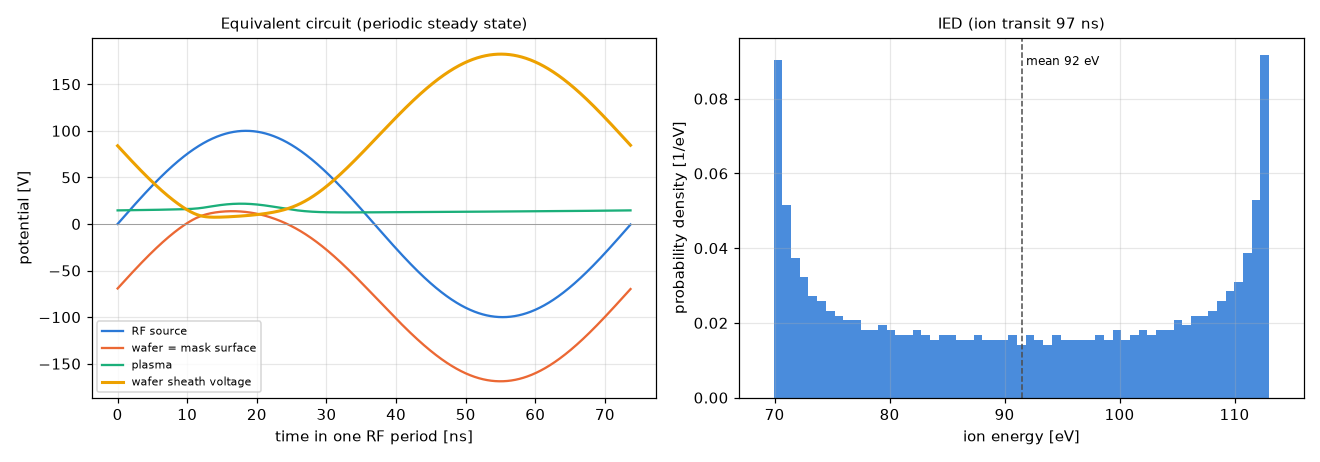
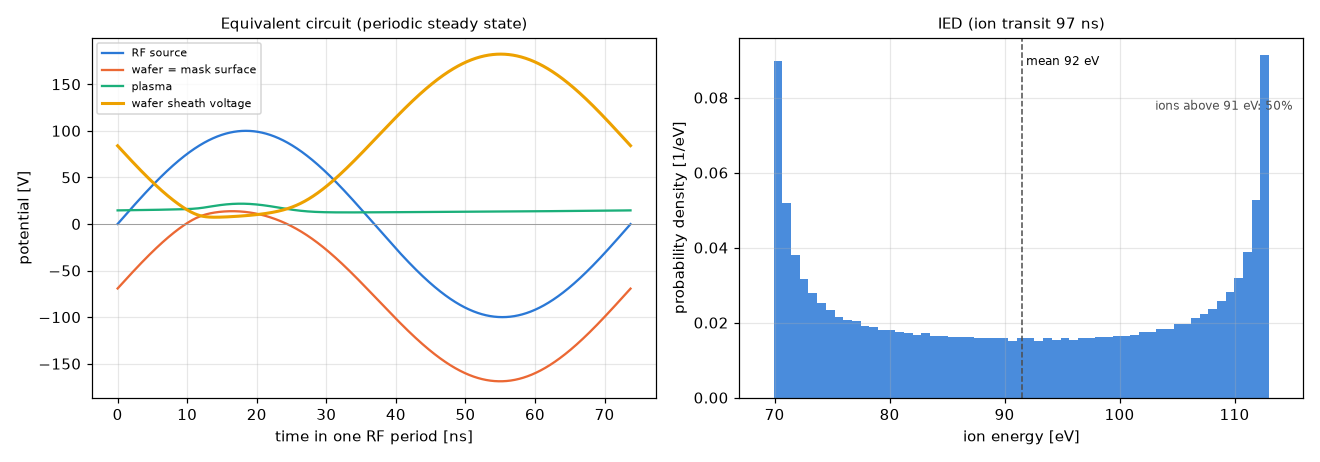
feat: RF バイアスに負の矩形パルス波形を追加
- rf_wave (sine / pulse)、rf_duty (パルス幅の割合, 既定 10%)、rf_rise (立ち上がり時間,
  既定 1 ns) を追加。pulse は 0 V から -rf_volt へ下がる負に凸の矩形パルス
- 等価回路の素子はそのままで、1 周期を電源電圧がなめらかな区間に分けて積分し、
  パルスのエッジでも硬い ODE が崩れないようにした
- 出力の格子を 1 周期 4096 点に増やし、IED の図に高エネルギー側の割合を表示
- GUI に波形・パルス幅・立ち上がり時間の入力欄と入力チェックを追加
  (パルスの欄は rf かつ pulse のときだけ有効)
- 正弦波の結果は変更前と 1e-7 V 以内で一致、bias=dc はビット単位で一致することを確認
- README にパルスの説明・周波数ごとの IED・トレンチの帯電への影響を追加

diff --git a/plasma_circuit.py b/plasma_circuit.py
@@ -7,8 +7,15 @@ RF バイアスのプラズマ等価回路 (集中定数モデル)
 Yu et al., Plasma Sources Sci. Technol. 31, 035012 (2022) の従来型の等価回路 (Fig. 4(b)) を基に、
 ブロッキングコンデンサとウェハ上の膜 (SiO2 + マスク) を直列に入れた回路を解く:
 
-    RF 電源 Vrf sin(2πft) ─ C_b ─ ウェハ (Si) ─ C_stack (SiO2 [+ 誘電体マスク]) ─ 表面 (マスク)
+    RF 電源 u_s(t) ─ C_b ─ ウェハ (Si) ─ C_stack (SiO2 [+ 誘電体マスク]) ─ 表面 (マスク)
         ─ ウェハ側シース ─ プラズマ ─ 壁側シース (面積はウェハの wall_ratio 倍) ─ 接地
+
+* RF 電源の波形 (rf_wave):
+    sine : u_s = Vrf sin(2πft)
+    pulse: 0 V から -Vrf へ下がる矩形パルス (負に凸)。パルス幅 (半分の高さで測る) は rf_duty × 周期、
+           立ち下がり・立ち上がりは rf_rise の直線。C_b が直流を切るので、0 V の基準の位置は結果に関係しない。
+  1 周期を電源電圧がなめらかな区間 (パルスならエッジとその間) に分けて区間ごとに積分するので、
+  硬い ODE でもエッジで崩れない。
 
 * シースは 3 つの要素の並列:
     イオン電流源      I_i = e Γ_i A              (Γ_i = Params.flux, Bohm フラックス)
@@ -38,6 +45,7 @@ M_E = 9.1093837015e-31       # [kg]
 AMU = 1.66053906660e-27      # [kg]
 
 BIAS_TYPES = ("rf", "dc")             # bias の選択肢 (dc: 全イオンが ion_energy_eV)
+WAVE_TYPES = ("sine", "pulse")        # rf_wave の選択肢 (pulse: 負に凸の矩形パルス)
 IED_MODELS = ("transit", "instant")   # ied_model の選択肢
 
 
@@ -69,8 +77,39 @@ def _electron_current(V, A, el):
     return el["J_e"] * A * np.exp(np.minimum(-V / el["Te"], 60.0))
 
 
-def _rhs(el, Vrf, w):
-    """状態 x = (q, V1) の時間微分を返す関数。
+def source_segments(p):
+    """RF 電源の 1 周期を、電圧がなめらかな区間に分けたリスト [(t0, t1, u_s(t), du_s/dt(t)), ...] を返す
+    (t は周期の始まりからの時刻)。pulse は 立ち下がり → -Vrf → 立ち上がり → 0 V の 4 区間。"""
+    if p.rf_wave not in WAVE_TYPES:
+        raise ValueError(f"rf_wave は {' / '.join(WAVE_TYPES)} のどちらかにしてください: {p.rf_wave!r}")
+    T = 1.0 / p.rf_freq
+    V = p.rf_volt
+    if p.rf_wave == "sine":
+        w = 2 * np.pi * p.rf_freq
+        return [(0.0, T, lambda t: V * np.sin(w * t), lambda t: V * w * np.cos(w * t))]
+    D, tr = p.rf_duty, p.rf_rise
+    if not 0 < D < 1:
+        raise ValueError(f"rf_duty (パルス幅の割合) は 0 より大きく 1 より小さくしてください: {D}")
+    if not 0 < tr <= min(D, 1 - D) * T:
+        raise ValueError(f"rf_rise (立ち上がり時間) は 0 より大きく、パルス幅とパルスの間隔 "
+                         f"({min(D, 1 - D) * T * 1e9:.3g} ns) 以下にしてください: {tr * 1e9:.3g} ns")
+    knots = [0.0, tr, D * T, D * T + tr, T]          # 半分の高さで測ったパルス幅が D T になる
+    levels = [0.0, -V, -V, 0.0, 0.0]
+    return [(a, b, (lambda t, a=a, ua=ua, k=(ub - ua) / (b - a): ua + k * (t - a)),
+             (lambda t, k=(ub - ua) / (b - a): k))
+            for a, b, ua, ub in zip(knots[:-1], knots[1:], levels[:-1], levels[1:]) if b > a]
+
+
+def source_label(p):
+    """ログ・表示用の電源波形の説明。"""
+    if p.rf_wave == "pulse":
+        return (f"負のパルス {p.rf_freq/1e6:g} MHz, 高さ {p.rf_volt:g} V, 幅 {p.rf_duty*100:g}%, "
+                f"立ち上がり {p.rf_rise*1e9:g} ns")
+    return f"正弦波 {p.rf_freq/1e6:g} MHz, 振幅 {p.rf_volt:g} V"
+
+
+def _rhs(el, us_f, dus_f):
+    """状態 x = (q, V1) の時間微分を返す関数 (us_f, dus_f: 電源電圧とその時間微分)。
     KVL を時間微分した式から直列電流 i を求める:
         C0 dV0/dt = i - (I_e0 - I_i0),  C1 dV1/dt = (I_e1 - I_i1) - i,  dV0/dt = du_s/dt - i / C_s + dV1/dt"""
     A1, A0, C_s = el["A1"], el["A0"], el["C_s"]
@@ -78,7 +117,7 @@ def _rhs(el, Vrf, w):
 
     def rhs(t, x):
         q, V1 = x
-        us, dus = Vrf * np.sin(w * t), Vrf * w * np.cos(w * t)
+        us, dus = us_f(t), dus_f(t)
         V0 = us - q / C_s + V1
         C1, C0 = _sheath_cap(V1, A1, el), _sheath_cap(V0, A0, el)
         d1 = _electron_current(V1, A1, el) - I_i1     # ウェハ側シースの (電子 - イオン) 電流
@@ -88,7 +127,7 @@ def _rhs(el, Vrf, w):
     return rhs
 
 
-def solve_circuit(p, n_phase=1024, max_periods=3000):
+def solve_circuit(p, n_phase=4096, max_periods=3000):
     """RF 周期定常まで回路を解き、1 周期分の波形と IED を dict で返す。
     t: 位相 0 からの時刻 [s], us/uw/um/up: RF 電源・ウェハ・表面 (マスク)・プラズマの電位 [V],
     V1: ウェハ側シース電圧 [V], i: 直列電流 [A], E: シースに入った時刻ごとのイオンエネルギー [eV]"""
@@ -98,31 +137,42 @@ def solve_circuit(p, n_phase=1024, max_periods=3000):
     Te = el["Te"]
     w = 2 * np.pi * p.rf_freq
     T = 1.0 / p.rf_freq
-    rhs = _rhs(el, p.rf_volt, w)
+    segs = [(a, b, us_f, _rhs(el, us_f, dus_f)) for a, b, us_f, dus_f in source_segments(p)]
     atol = [1e-9 * el["C_s"], 1e-7]                 # q [C], V1 [V]
+
+    def one_period(x, t_out=None, tight=False):
+        """1 周期を区間ごとに積分し、周期の終わりの状態と、t_out (周期内の時刻) での状態を返す。"""
+        ys = []
+        for a, b, _, rhs in segs:
+            te = None if t_out is None else np.append(t_out[(t_out >= a) & (t_out < b)], b)
+            sol = solve_ivp(rhs, (a, b), x, method="LSODA", t_eval=te,
+                            rtol=1e-9 if tight else 1e-7, atol=[v / 100 for v in atol] if tight else atol)
+            if not sol.success:
+                raise RuntimeError(f"等価回路の積分に失敗しました: {sol.message}")
+            x = sol.y[:, -1]
+            if t_out is not None:
+                ys.append(sol.y[:, :-1])
+        return x, (np.hstack(ys) if ys else None)
 
     x = np.array([0.0, Te])
     for k in range(max_periods):
-        sol = solve_ivp(rhs, (k * T, (k + 1) * T), x, method="LSODA", rtol=1e-7, atol=atol)
-        if not sol.success:
-            raise RuntimeError(f"等価回路の積分に失敗しました: {sol.message}")
-        dq, dV = np.abs(sol.y[:, -1] - x)
-        x = sol.y[:, -1]
+        x_new, _ = one_period(x)
+        dq, dV = np.abs(x_new - x)
+        x = x_new
         if k >= 3 and dq < 1e-6 * el["C_b"] and dV < 1e-4:   # 1 周期での変化が C_b で 1 μV, V1 で 0.1 mV 未満
             break
     else:
         raise RuntimeError(f"等価回路が {max_periods} 周期で周期定常になりませんでした")
 
     t = np.arange(n_phase) * T / n_phase
-    sol = solve_ivp(rhs, (0.0, T), x, method="LSODA", rtol=1e-9, atol=[a / 100 for a in atol], t_eval=t)
-    if not sol.success:
-        raise RuntimeError(f"等価回路の積分に失敗しました: {sol.message}")
-    q, V1 = sol.y
-    us = p.rf_volt * np.sin(w * t)
+    _, y = one_period(x, t_out=t, tight=True)
+    q, V1 = y
+    seg_of = np.searchsorted([b for _, b, _, _ in segs], t, side="right")   # 各時刻が属する区間
+    us = np.array([segs[j][2](tt) for j, tt in zip(seg_of, t)])
     uw = us - q / el["C_b"]                         # ウェハ (Si)
     um = uw - q / el["C_stack"]                     # 表面 (マスク)
     up = um + V1                                    # プラズマ (= 壁側シース電圧)
-    i = np.array([rhs(tt, xx)[0] for tt, xx in zip(t, sol.y.T)])
+    i = np.array([segs[j][3](tt, xx)[0] for j, tt, xx in zip(seg_of, t, y.T)])
 
     # イオンエネルギー: シース通過時間での平均 (一次遅れ) または瞬時値
     V1m = V1.mean()
@@ -167,7 +217,7 @@ def plot_circuit(c, ax_wave, ax_ied):
     ax_wave.set_xlabel("time in one RF period [ns]")
     ax_wave.set_ylabel("potential [V]")
     ax_wave.set_title("Equivalent circuit (periodic steady state)", fontsize=10)
-    ax_wave.legend(fontsize=7, loc="lower left")
+    ax_wave.legend(fontsize=7, loc="best")
     ax_wave.grid(alpha=0.3)
 
     E = c["E"]
@@ -175,6 +225,9 @@ def plot_circuit(c, ax_wave, ax_ied):
     ax_ied.hist(E, bins=bins, density=True, color=colors[0], alpha=0.85)
     ax_ied.axvline(E.mean(), color="0.3", ls="--", lw=1)
     ax_ied.text(E.mean(), ax_ied.get_ylim()[1] * 0.95, f" mean {E.mean():.0f} eV", fontsize=8, va="top")
+    mid = (E.min() + E.max()) / 2
+    ax_ied.text(0.98, 0.80, f"ions above {mid:.0f} eV: {(E > mid).mean() * 100:.0f}%", transform=ax_ied.transAxes,
+                ha="right", fontsize=8, color="0.3")
     ax_ied.set_xlabel("ion energy [eV]")
     ax_ied.set_ylabel("probability density [1/eV]")
     ax_ied.set_title(f"IED (ion transit {c['tau_i']*1e9:.0f} ns)", fontsize=10)

diff --git a/trench_charging_2d.py b/trench_charging_2d.py
@@ -26,6 +26,7 @@
     - イオン  : 垂直入射 + 横方向の熱速度 Ti。エネルギーは bias="rf" (既定) なら RF バイアスの
                 プラズマ等価回路 (plasma_circuit.py: RF 電源 → ブロッキングコンデンサ → ウェハ → SiO2 →
                 マスク → シース → プラズマ → シース → 接地) を RF 周期定常まで解いて求めた IED から選ぶ。
+                電源の波形は正弦波 (既定) か、負に凸の矩形パルス (rf_wave="pulse", 幅 rf_duty) 。
                 bias="dc" なら全イオンが ion_energy_eV。
                 帯電の時定数 (ms) は RF 周期 (74 ns) よりずっと長いので、IED だけを使う (一方向の連成)。
     - 電子    : 温度 Te のマクスウェル分布のフラックス分布(等方的)
@@ -50,6 +51,7 @@
     uv run trench_charging_2d.py --mask_t 40     # マスク厚 40 セル = 200 nm (0 でマスクなし)
     uv run trench_charging_2d.py --mask_type dielectric --mask_eps_r 3.0  # 絶縁性のマスク
     uv run trench_charging_2d.py --rf_freq 2e6 --rf_volt 150  # RF バイアスの周波数 [Hz] と振幅 [V]
+    uv run trench_charging_2d.py --rf_wave pulse --rf_freq 1e6 --rf_duty 0.1  # 負の矩形パルス (幅 10%)
     uv run trench_charging_2d.py --bias dc       # RF 回路を使わず、全イオンを ion_energy_eV にする
     uv run trench_charging_2d.py --help          # 変更できるパラメータ一覧
 
@@ -108,7 +110,10 @@ class Params:
     # ---- RF バイアス (プラズマ等価回路, plasma_circuit.py) ----
     bias: str = "rf"          # "rf": 等価回路のシース電圧から IED を作る / "dc": 全イオンが ion_energy_eV
     rf_freq: float = 13.56e6  # RF 周波数 [Hz]
-    rf_volt: float = 100.0    # RF 電源の振幅 [V]
+    rf_volt: float = 100.0    # RF 電源の振幅 [V] (pulse ではパルスの高さ)
+    rf_wave: str = "sine"     # RF 電源の波形: "sine" (正弦波) / "pulse" (0 V から -rf_volt へ下がる負の矩形パルス)
+    rf_duty: float = 0.1      # pulse: パルス幅 (半分の高さで測る) の周期に対する割合
+    rf_rise: float = 1e-9     # pulse: 立ち下がり・立ち上がりの時間 [s]
     c_block: float = 4900e-12  # ブロッキングコンデンサ [F]
     wafer_d: float = 0.3      # ウェハ (電極) の直径 [m]
     wall_ratio: float = 5.0   # 接地側 (壁) の面積 / ウェハの面積
@@ -501,7 +506,7 @@ def run(p, log=print, progress=None, stop=None):
     if p.bias == "rf":
         circuit = PC.solve_circuit(p)
         ion_energy = PC.ion_energy_sampler(circuit)
-        log(f"RF {p.rf_freq/1e6:g} MHz, 振幅 {p.rf_volt:g} V, C_b {p.c_block*1e12:g} pF, "
+        log(f"RF バイアスの電源: {PC.source_label(p)}, C_b {p.c_block*1e12:g} pF, "
             f"ウェハ {p.wafer_d*1e3:g} mm, 壁/ウェハ面積比 {p.wall_ratio:g}")
         log(PC.summary(circuit))
     log(f"1 マクロ粒子 = 実粒子 {w_real:.1f} 個/m,  1 バッチ = {p.dt_batch*1e6:.2f} μs")
@@ -770,7 +775,8 @@ def save_results(res, p, out, pyplot=False):
 
 def main():
     ap = argparse.ArgumentParser(description=__doc__, formatter_class=argparse.RawDescriptionHelpFormatter)
-    choices = {"mask_type": MASK_TYPES, "bias": PC.BIAS_TYPES, "ied_model": PC.IED_MODELS}
+    choices = {"mask_type": MASK_TYPES, "bias": PC.BIAS_TYPES, "rf_wave": PC.WAVE_TYPES,
+               "ied_model": PC.IED_MODELS}
     for k, v in asdict(Params()).items():
         if isinstance(v, bool):
             ap.add_argument(f"--{k}", action="store_true", default=v)

diff --git a/trench_charging_gui.py b/trench_charging_gui.py
@@ -66,14 +66,18 @@ PLASMA = [
 ]
 RF = [
     ("bias", "バイアス (rf: 等価回路)", "", 1, PC.BIAS_TYPES),
+    ("rf_wave", "波形 (pulse: 負のパルス)", "", 1, PC.WAVE_TYPES),
     ("rf_freq", "RF 周波数", "MHz", 1e6, float),
-    ("rf_volt", "RF 振幅", "V", 1, float),
+    ("rf_volt", "振幅 / パルスの高さ", "V", 1, float),
+    ("rf_duty", "パルス幅 (周期に対する割合)", "%", 0.01, float),
+    ("rf_rise", "パルスの立ち上がり時間", "ns", 1e-9, float),
     ("c_block", "ブロッキングコンデンサ", "pF", 1e-12, float),
     ("wafer_d", "ウェハ直径", "mm", 1e-3, float),
     ("wall_ratio", "壁 / ウェハの面積比", "", 1, float),
     ("ied_model", "IED のモデル", "", 1, PC.IED_MODELS),
 ]
 RF_KEYS = {f[0] for f in RF} - {"bias"}
+PULSE_KEYS = {"rf_duty", "rf_rise"}
 LEAK = [
     ("sigma_s", "表面シート伝導度 (0=なし)", "S", 1, float),
 ]
@@ -131,7 +135,13 @@ def validate(p):
     if p.bias == "rf" and min(p.rf_freq, p.c_block, p.wafer_d, p.wall_ratio) <= 0:
         return "RF 周波数・ブロッキングコンデンサ・ウェハ直径・面積比は正の値にしてください。"
     if p.bias == "rf" and p.rf_volt < 0:
-        return "RF 振幅は 0 以上にしてください。"
+        return "RF 振幅 (パルスの高さ) は 0 以上にしてください。"
+    if p.bias == "rf" and p.rf_wave == "pulse":
+        if not 0 < p.rf_duty < 1:
+            return "パルス幅は 0% より大きく 100% より小さくしてください。"
+        if not 0 < p.rf_rise <= min(p.rf_duty, 1 - p.rf_duty) / p.rf_freq:
+            return (f"パルスの立ち上がり時間は 0 より大きく、パルス幅とパルスの間隔 "
+                    f"({min(p.rf_duty, 1 - p.rf_duty) / p.rf_freq * 1e9:.3g} ns) 以下にしてください。")
     if p.n_per_batch < 100 or p.dt_batch <= 0:
         return "1バッチの粒子数は 100 以上、物理時間は正の値にしてください。"
     if not (0 < p.cfl <= 1) or p.max_steps < 100:
@@ -486,6 +496,9 @@ class App(tk.Tk):
                 st = "normal" if steady else "disabled"
             elif key == "mask_eps_r":
                 st = "normal" if self.vars["mask_type"].get() == "dielectric" else "disabled"
+            elif key in PULSE_KEYS:
+                st = "normal" if (self.vars["bias"].get() == "rf"
+                                  and self.vars["rf_wave"].get() == "pulse") else "disabled"
             elif key in RF_KEYS:
                 st = "normal" if self.vars["bias"].get() == "rf" else "disabled"
             elif key == "ion_energy_eV":
@@ -516,8 +529,8 @@ class App(tk.Tk):
         else:
             lines.append("マスクなし")
         if p.bias == "rf":
-            lines.append(f"RF {p.rf_freq / 1e6:g} MHz・{p.rf_volt:g} V (C_b {p.c_block * 1e12:g} pF, "
-                         f"ウェハ {p.wafer_d * 1e3:g} mm): IED は「回路の波形…」で確認")
+            lines.append(f"RF バイアス: {PC.source_label(p)} (C_b {p.c_block * 1e12:g} pF, "
+                         f"ウェハ {p.wafer_d * 1e3:g} mm)。IED は「回路の波形…」で確認")
         elif p.ion_energy_eV > 0 and p.ion_temp_eV >= 0:
             lines.append(f"イオン角度広がり ≈ {np.degrees(np.sqrt(p.ion_temp_eV / (2 * p.ion_energy_eV))):.1f}°")
         if p.until_steady:
